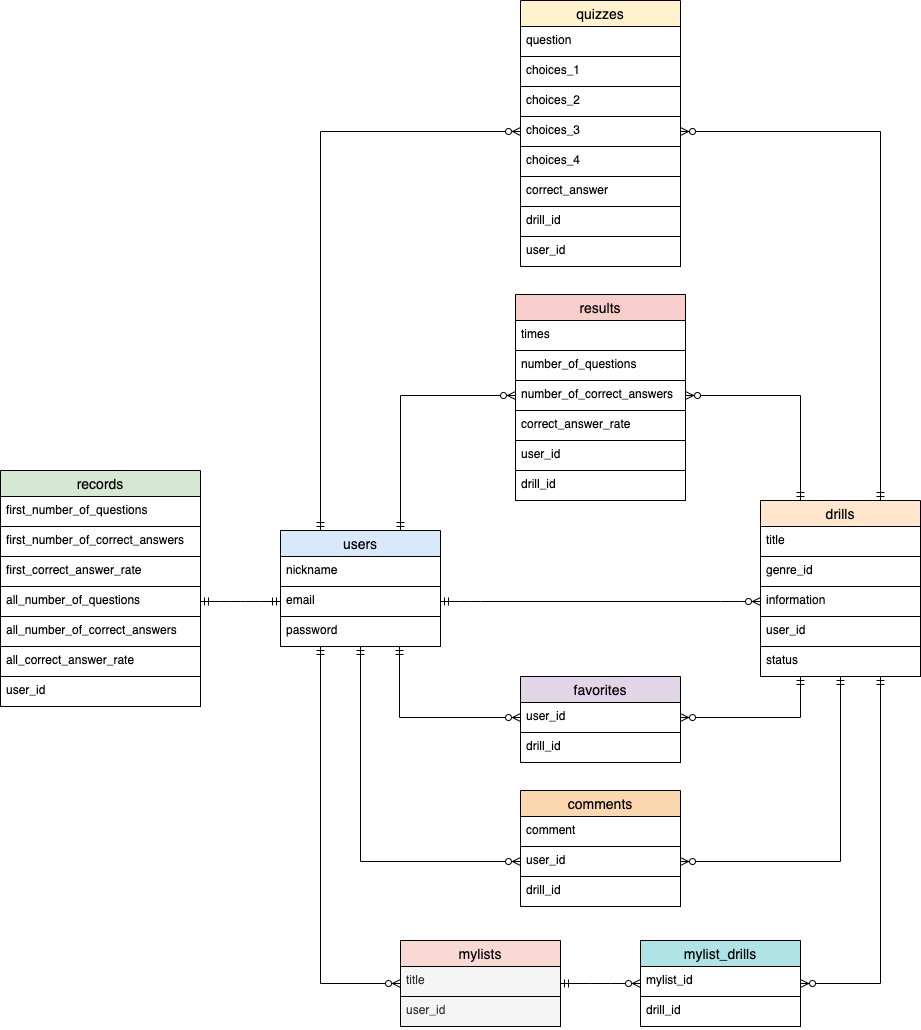
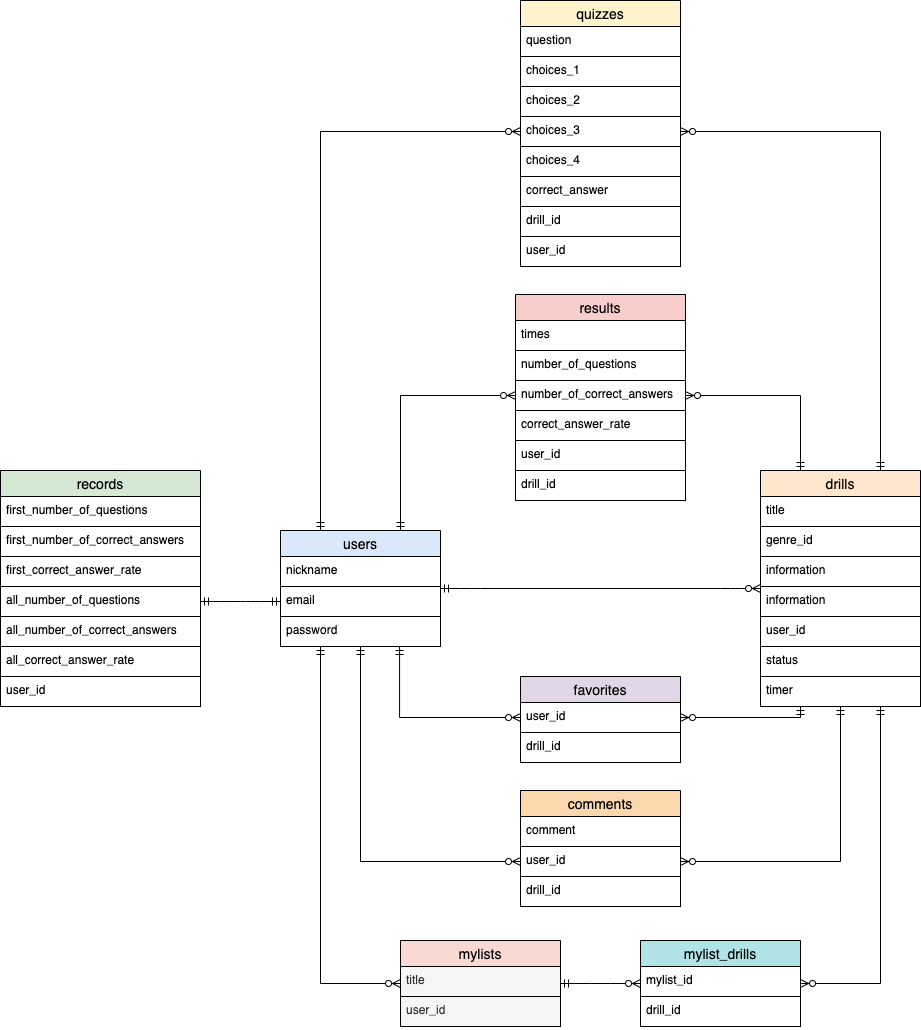
ER図にtimerカラムを追加

Changed region(s): [[0.8208, 0.435, 1.0, 0.5592], [0.8208, 0.6524, 0.8512, 0.6835], [0.7904, 0.5592, 0.8208, 0.5903]]

diff --git a/README.md b/README.md
@@ -68,10 +68,6 @@ https://docs.google.com/spreadsheets/d/1FjFZSAV6R4gZJtOmv5wjZROX9nFLqSOOxDfVZASl
 <img src="https://i.gyazo.com/66dc77be48b58f4ee3defa49a7e34fd3.gif" width="45%"> <img src="https://i.gyazo.com/b22356b7800ba7cc4366ea28aa655a3b.gif" width="45%">
 <img src="https://i.gyazo.com/b029e26f261ec4294a2ee46de9965a25.gif" width="45%">
 
-
-# 実装予定機能
-現在はタイマー機能を実装中。
-
 # データベース設計
 ![ER図](public/images/now_the_question.png)
 
